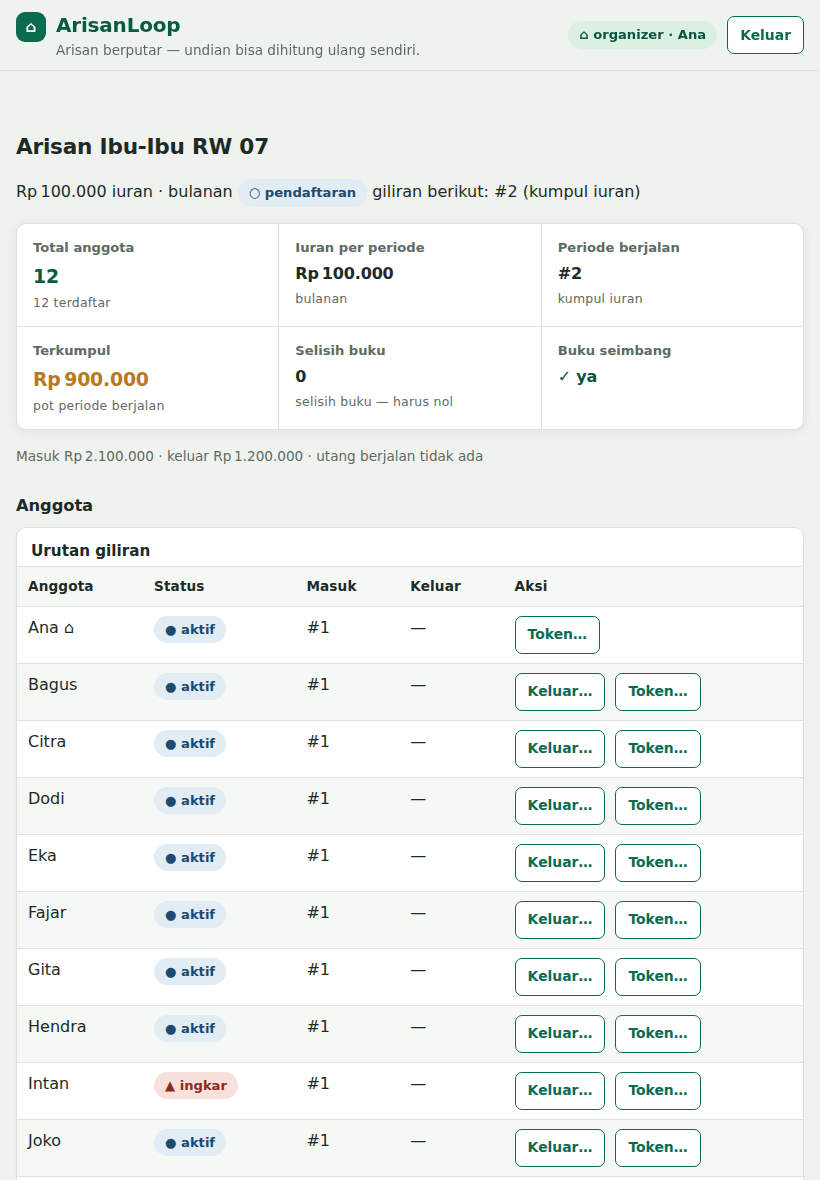
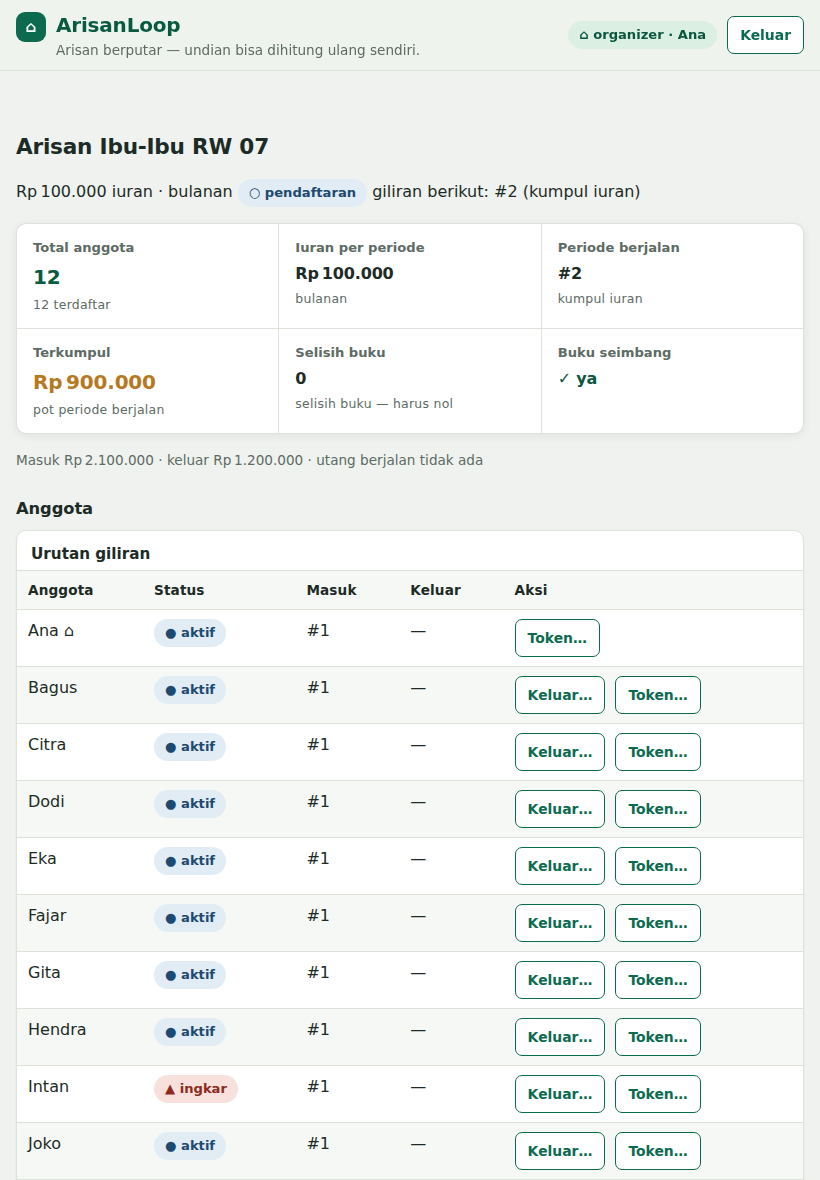
fix: money KPI values to 1.25rem bold (clear WCAG large-text threshold with margin); re-capture after-shots

diff --git a/frontend/app.css b/frontend/app.css
@@ -193,8 +193,9 @@ tbody tr:hover { background: var(--accent-soft); }
 .strip > div { background: var(--surface); padding: 14px 16px 12px; min-width: 0; }
 .strip dt { color: var(--muted); font-size: .82rem; font-weight: 600; margin-bottom: 4px; }
 .strip dd { margin: 0; font-weight: 800; font-variant-numeric: tabular-nums; letter-spacing: -.01em; }
-.strip dd.lead { color: var(--brand-deep); font-size: 1.18rem; }
-.strip dd.lead-2 { color: var(--accent); font-size: 1.18rem; }
+/* 1.25rem bold: money values clear WCAG large-text (14pt bold = 18.66px) -> 3:1, amber 3.64 passes */
+.strip dd.lead { color: var(--brand-deep); font-size: 1.25rem; }
+.strip dd.lead-2 { color: var(--accent); font-size: 1.25rem; }
 .strip .tag { font-weight: 500; font-size: .78rem; color: var(--muted); letter-spacing: .02em; }
 .kpi-note { color: var(--muted); font-size: .85rem; margin: 12px 0 0; }
 
